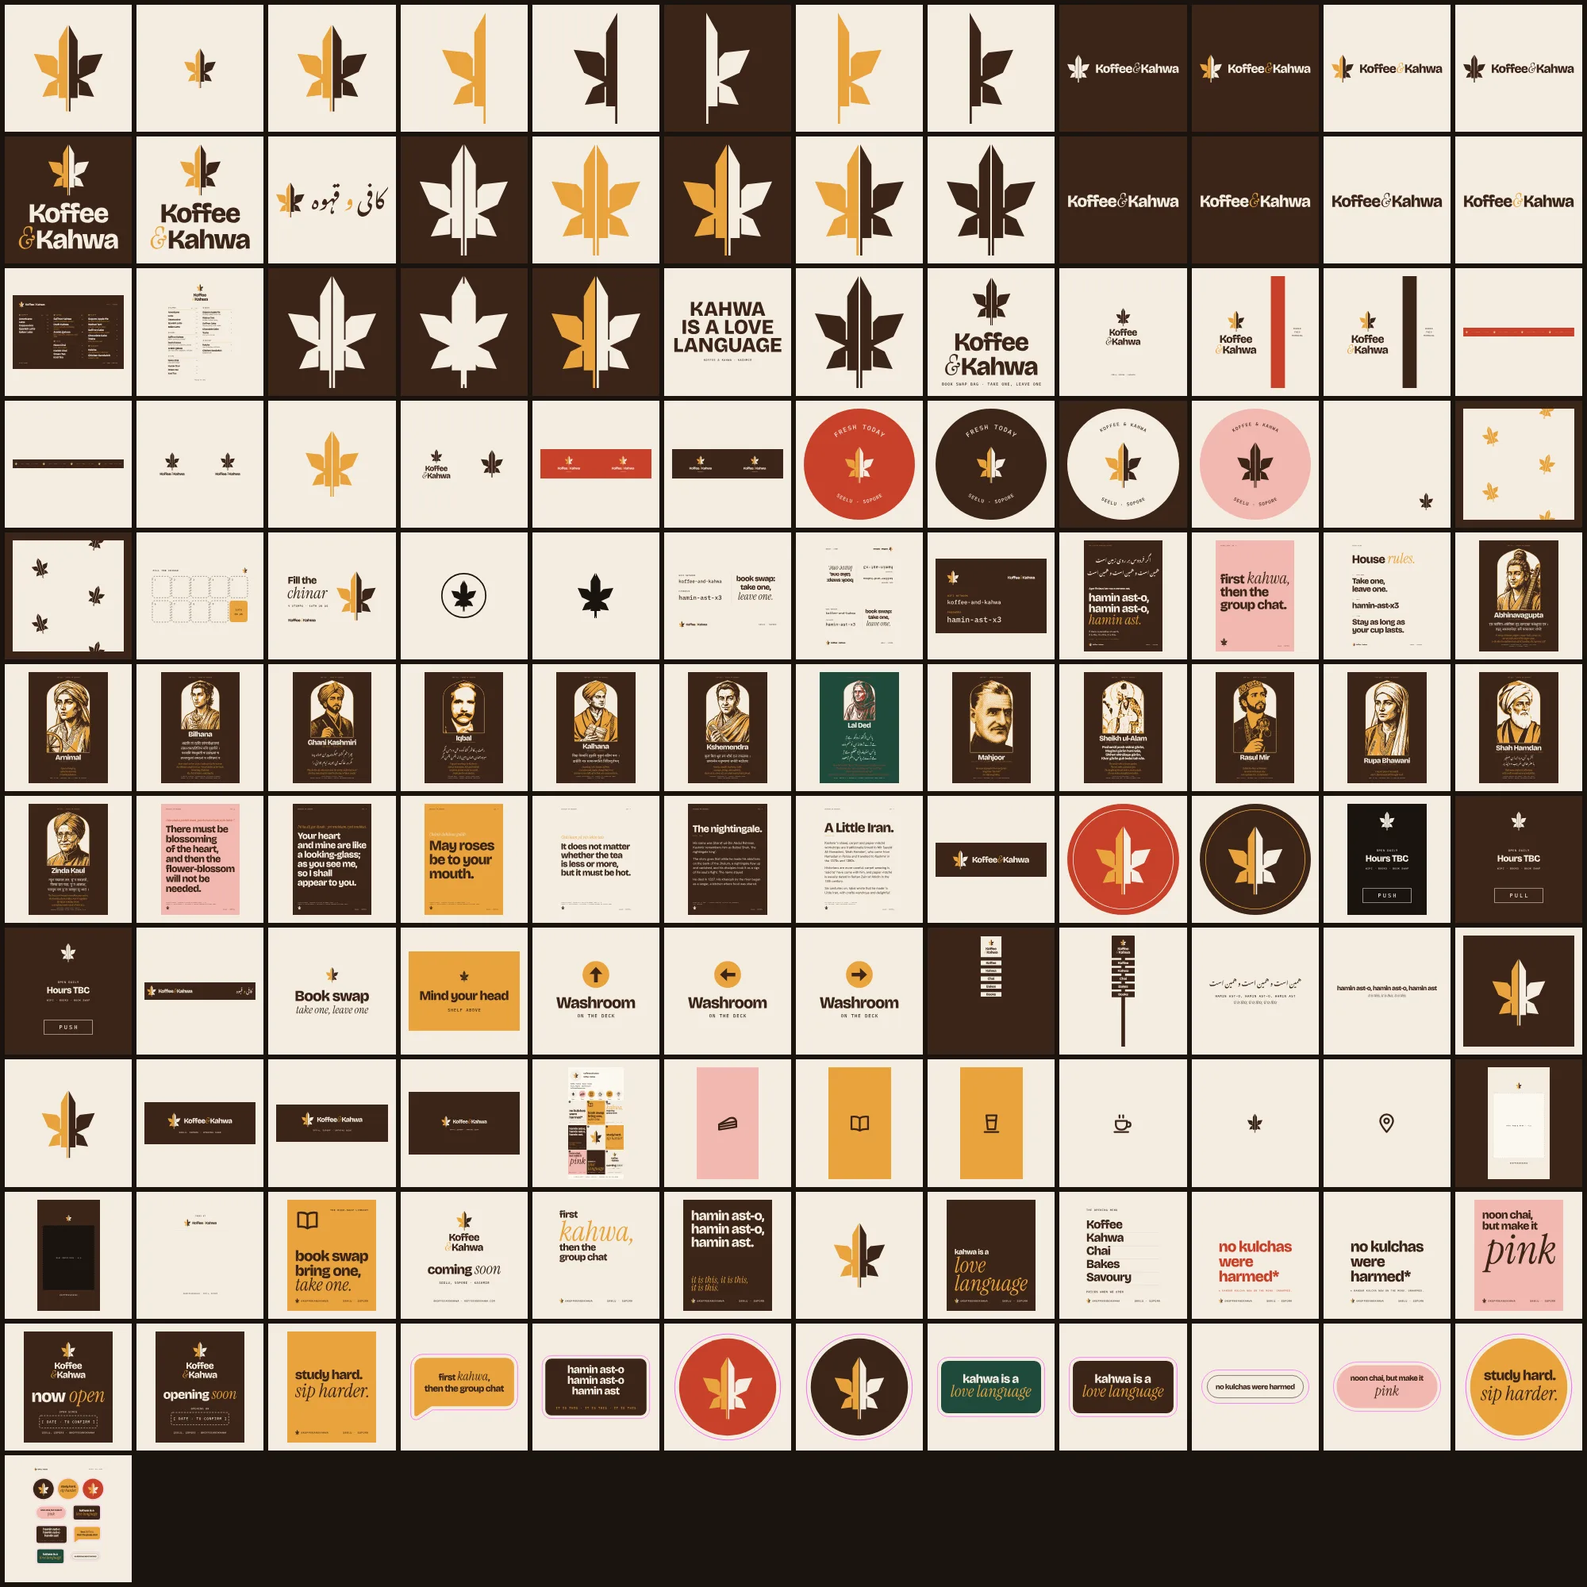
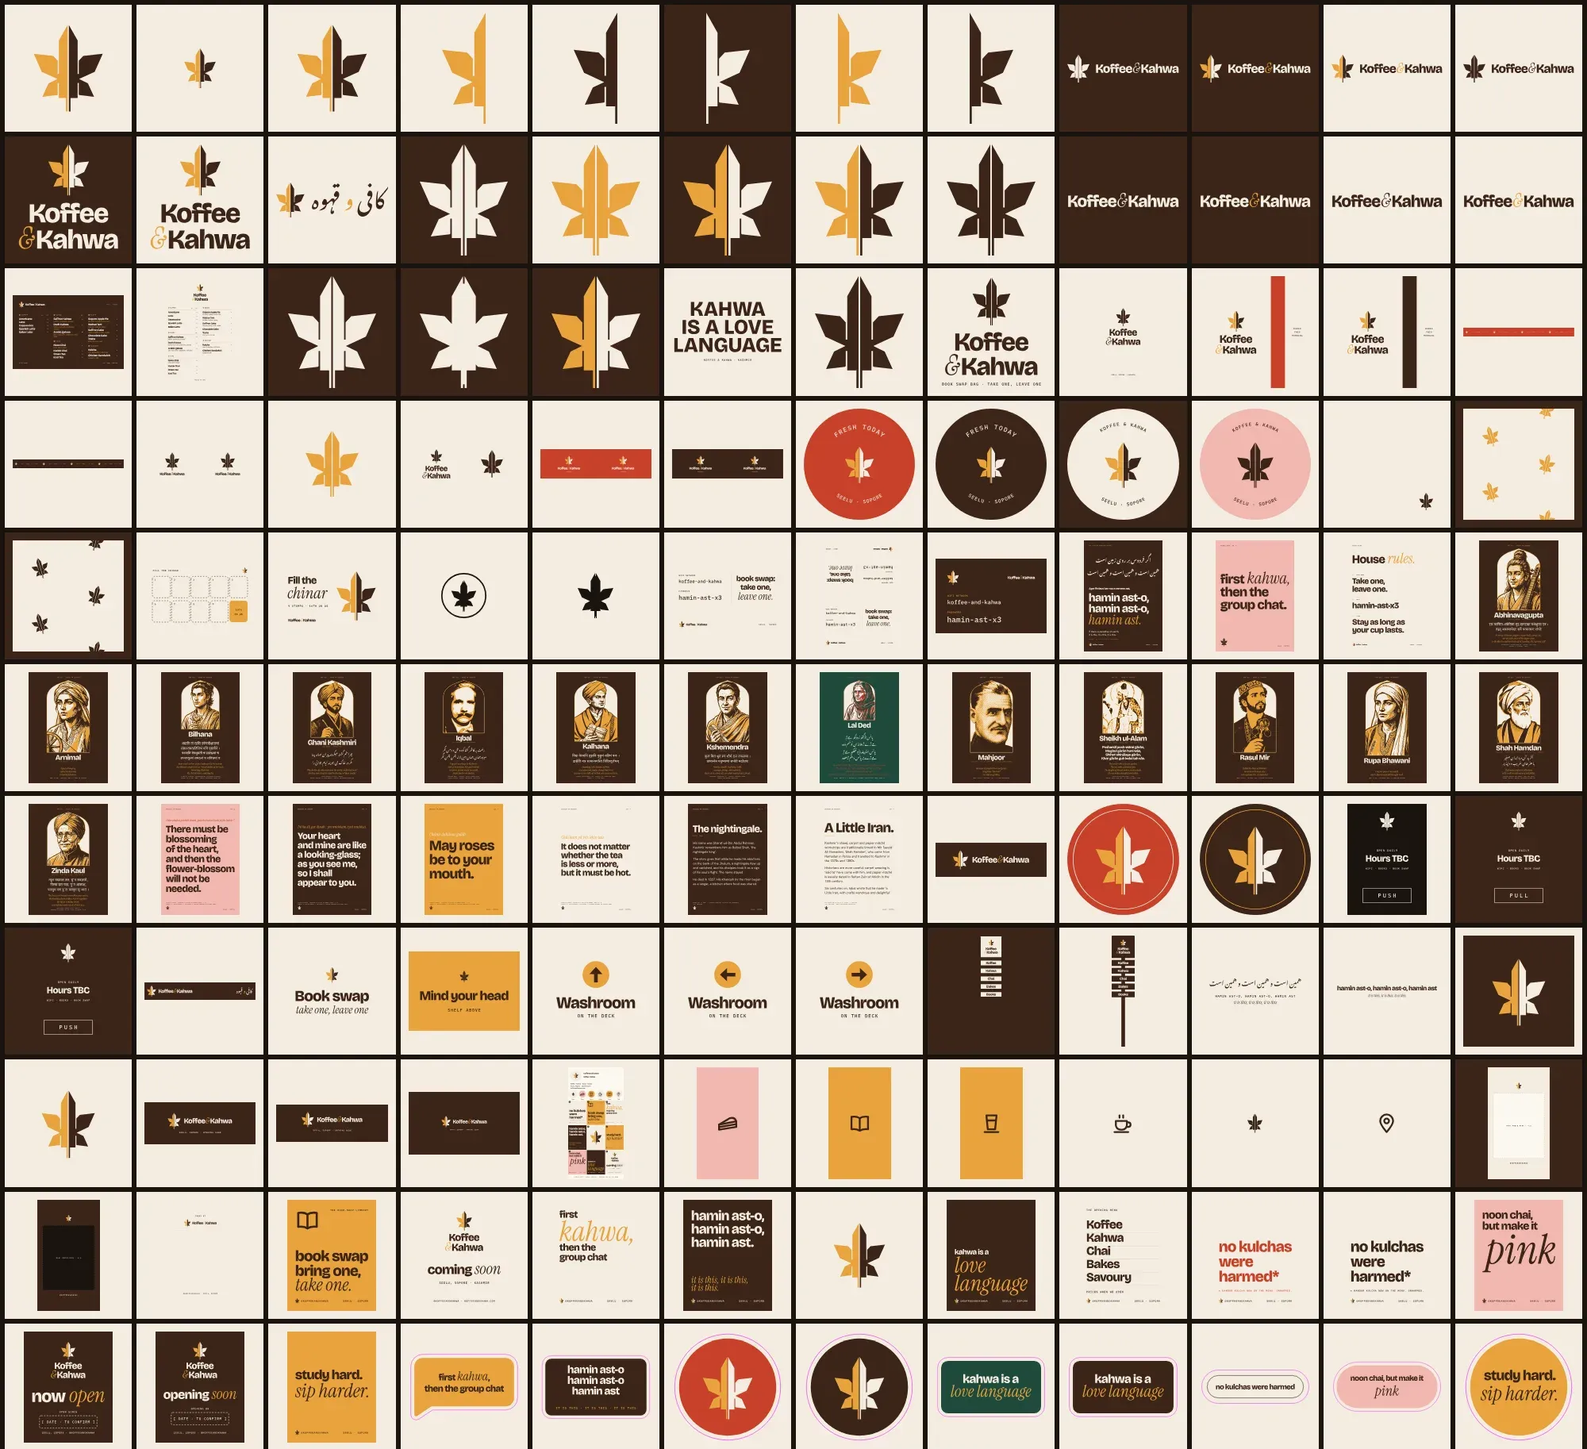
Koffee & Kahwa, re-edited: finished work first, process as proof
From the Fable 5 and 5.2 reviews: the page read as an archive, not a
showcase. Same bones, emphasis inverted, seven beats instead of ten:

- Opens on the dusk 3D model, then the two Ks.
- The identity large: the lockup, the menu and the sticker sheet.
- New beat, "One generator, every file.": the generator's lockup_h,
  verbatim, then the files it made and the colour and voice slides.
- The room: the walkthrough (poster now from its opening, on the road),
  the plan and two furniture sheets.
- "Not now. Not never.": one render pair (kangri attempt 1 rejected,
  attempt 3 kept) instead of eight, and every reversal in one list.
- "Now, the deck goes in." pairs the deck as drawn with its poured edge,
  cropped to the same shape.
- Cut: the rounds sheet, the shutters slide, six renders, the two poet
  posters (lettering unchecked), the Instagram grid, the cup sleeve, two
  sheets, the measure sheet. The grid loses its dead last row.
- Words: the third-person "studio's range" line is gone; the intro says
  the work is mine, made with agents, decisions dated. The tally is now
  just "58 days in". koffeeandkahwa.com leaves the links until the café
  opens (#196).

10.9 screens at 1300 wide (was 13.7). Verified: build and unit suite;
screenshots at 1300 and 390. Committed with --no-verify (#195).

Refs #88

diff --git a/src/content/projects/koffee-kahwa.md b/src/content/projects/koffee-kahwa.md
@@ -16,15 +16,13 @@ featured: true
 status: "selected"
 cover: "/images/projects/koffee-kahwa/cover.jpg"
 links:
-  - label: "koffeeandkahwa.com"
-    url: "https://koffeeandkahwa.com"
   - label: "Instagram"
     url: "https://www.instagram.com/koffeeandkahwa/"
 media:
   - type: "image"
     src: "/images/projects/koffee-kahwa/model-front-dusk.webp"
     alt: "The café's 3D model from across the road at dusk: the deck, umbrellas, the pylon and the lit fascia."
-    caption: "The 3D model from across the road, at dusk."
+    caption: "The café as designed: the 3D model from across the road, at dusk."
     width: 1600
     height: 900
 journey:
@@ -62,109 +60,58 @@ journey:
       quotes:
         - text: "lets go with Koffee and Kahwa. but lets use a modern graphic art of the back to back K and reverse K…"
           when: "29 Sep 2026"
-    - when: "Sep – Oct 2026"
+    - when: "Oct – Nov 2026"
       date: "2026-10"
-      line: "Four rounds of votes, then one deck."
-      layout: "wide"
-      media:
-        - type: "image"
-          src: "/images/projects/koffee-kahwa/rounds-1-to-4.webp"
-          alt: "Eight slides from the four retired voting rounds, two from each."
-          caption: "Rounds 1 to 4: four voting decks before the one definitive deck."
-          width: 1980
-          height: 576
-      turns:
-        - when: "12 Oct 2026"
-          from: "Four logo variants up for a vote, neon among them"
-          to: "The split leaf only; neon dropped everywhere"
-        - when: "12 Oct 2026"
-          from: "Kulcha off the menu"
-          to: "Kandur kulcha back for the traditionalists"
-        - when: "13 Oct 2026"
-          from: "Four voting decks with Love, Maybe and No buttons"
-          to: "One definitive deck, and no votes"
-    - when: "Sep – Oct 2026"
-      date: "2026-10"
-      line: "Every render kept, with its verdict."
-      note: "Each AI render is kept with its prompt, its attempt and what was wrong with it. None of them is the real place."
-      layout: "sheet"
-      media:
-        - type: "image"
-          src: "/images/projects/koffee-kahwa/ai-front-dusk-kept.webp"
-          alt: "AI render of the café front at dusk, made on a drawn view of the 3D model."
-          caption: "AI attempt: the front at dusk, on the 3D model. Kept."
-          width: 1600
-          height: 900
-        - type: "image"
-          src: "/images/projects/koffee-kahwa/ai-deck-night-kept.webp"
-          alt: "AI render of the deck at night by kangri light."
-          caption: "AI attempt: the deck at night. Kept."
-          width: 1600
-          height: 900
-        - type: "image"
-          src: "/images/projects/koffee-kahwa/ai-counter-kept.webp"
-          alt: "AI render of the lapis papier-mâché counter and cake case."
-          caption: "AI attempt: the counter and cake case. Kept."
-          width: 1448
-          height: 1086
-        - type: "image"
-          src: "/images/projects/koffee-kahwa/ai-room-corner-kept.webp"
-          alt: "AI render of the whole room from the back corner, the lapis counter and window bar, the deck beyond."
-          caption: "AI attempt: the room from the back corner. Kept, but drawn too large."
-          width: 1600
-          height: 900
-        - type: "image"
-          src: "/images/projects/koffee-kahwa/ai-kangri-two-arches-kept.webp"
-          alt: "AI render of a kangri lamp with two woven arches and a filament bulb in the clay pot."
-          caption: "AI attempt 3: the kangri lamp, with its two handles right. Kept."
-          width: 1376
-          height: 768
-        - type: "image"
-          src: "/images/projects/koffee-kahwa/ai-room-maple-leaves-rejected.webp"
-          alt: "AI render of the room from the door, with spiky maple leaves painted on the counter front."
-          caption: "Rejected: maple leaves on the counter. Ours is a chinar."
-          width: 1448
-          height: 1086
-        - type: "image"
-          src: "/images/projects/koffee-kahwa/ai-kangri-one-handle-rejected.webp"
-          alt: "AI render of a kangri lamp that reads as having one handle."
-          caption: "Rejected: one handle. A real kangri has two."
-          width: 1376
-          height: 768
-        - type: "image"
-          src: "/images/projects/koffee-kahwa/ai-khos-with-handle-rejected.webp"
-          alt: "AI render of a copper khos cup drawn with a handle."
-          caption: "Rejected: a khos with a handle. It has none."
-          width: 1136
-          height: 1408
-      quotes:
-        - text: "i see that many of the indoor pictures also still have the raw concrete vibe. which i feel makes it feel like a warehouse."
-          when: "29 Sep 2026"
-    - when: "12 Oct 2026"
-      date: "2026-10-12"
-      line: "The shutters stay. They get a job."
-      layout: "wide"
-      media:
-        - type: "image"
-          src: "/images/projects/koffee-kahwa/deck-slide-18-shutters.webp"
-          alt: "Deck slide: the kept roller shutters redesigned as a brand surface, with the pylon and blade sign artwork."
-          caption: "The old shutters stay, redesigned as the café's night face."
-          width: 1600
-          height: 900
-      turns:
-        - when: "12 Oct 2026"
-          from: "No shutters: a new front and a sign"
-          to: "The shutters stay, repaired and redesigned"
-    - when: "13 Oct 2026"
-      date: "2026-10-13"
-      line: "Warm base, rare accents."
-      note: "Every file comes out of one Python generator, from one set of colours and type."
+      line: "Every cup, one family."
       layout: "pair"
       media:
         - type: "image"
+          src: "/images/projects/koffee-kahwa/lockup-horizontal.svg"
+          alt: "The horizontal lockup: the leaf, the wordmark Koffee & Kahwa and its saffron ampersand."
+          caption: "The lockup, and its one saffron ampersand."
+          width: 352
+          height: 88
+          full: true
+        - type: "image"
+          src: "/images/projects/koffee-kahwa/menu-card-no-prices.webp"
+          alt: "The A4 table menu: Koffee, Kahwa, Chai, Bakes and Savoury, every price a dash."
+          caption: "The opening menu. Prices print as dashes until costed."
+          width: 1140
+          height: 1600
+        - type: "image"
+          src: "/images/projects/koffee-kahwa/sticker-sheet.webp"
+          alt: "An A4 kiss-cut sticker sheet: leaf discs and the house lines, such as study hard, sip harder."
+          caption: "Sticker sheet: the leaf and the house lines."
+          width: 1140
+          height: 1600
+    - when: "Oct – Nov 2026"
+      date: "2026-10"
+      line: "One generator, every file."
+      layout: "pair"
+      code:
+        caption: "How the generator draws the lockup: the proportions locked on the deck, kept as Python."
+        text: |
+          def lockup_h(x, y, size, words=None, amp=None, left=None, right=None, solid=None):
+              """Horizontal lockup: leaf, then wordmark, top-left at (x, y). size = word size.
+              Proportions from deck slide 1 (locked): leaf = 2.2x word size, gap = 0.46x,
+              wordmark caps centred on the leaf. Returns (svg, w, h)."""
+              mh = 2.2 * size
+              m, mw = mark(x, y, mh, left, right, solid)
+              base = y + mh * 0.5 + cap(size) * 0.5
+              wm, ww = wordmark(x + mw + 0.46 * size, base, size, words, amp)
+              return m + wm, mw + 0.46 * size + ww, mh
+      media:
+        - type: "image"
+          src: "/images/projects/koffee-kahwa/everything-the-generator-made.webp"
+          alt: "A grid of 132 brand files: marks, lockups, menus, packaging, signs, posters, social tiles, stickers, merch and paper."
+          caption: "132 of the files it has made: marks, menus, signs, posters, stickers."
+          width: 2000
+          height: 1826
+          full: true
+        - type: "image"
           src: "/images/projects/koffee-kahwa/deck-slide-08-colour-type.webp"
           alt: "Deck slide: the colours as a ratio bar, cream, walnut, saffron, pink, chinar, pine and lapis, and the three type roles."
-          caption: "Colour in ratio, and three typefaces with one job each."
+          caption: "Warm base, rare accents: colour in ratio, three typefaces."
           width: 1600
           height: 900
         - type: "image"
@@ -173,8 +120,8 @@ journey:
           caption: "Proud, not preachy: the house lines, one joke per object."
           width: 1600
           height: 900
-    - when: "14 Oct 2026"
-      date: "2026-10-14"
+    - when: "Oct – Nov 2026"
+      date: "2026-11"
       line: "The café grows toward the road."
       layout: "pair"
       media:
@@ -186,87 +133,6 @@ journey:
           width: 1280
           height: 720
           full: true
-        - type: "image"
-          src: "/images/projects/koffee-kahwa/model-room-night.webp"
-          alt: "The 3D model from behind the counter at night, kangri lamps lit, the deck beyond the glass."
-          caption: "From behind the counter, at night."
-          width: 1600
-          height: 1200
-        - type: "image"
-          src: "/images/projects/koffee-kahwa/model-deck.webp"
-          alt: "The 3D model on the deck: two columns of two-tops under umbrellas and the lane to the door."
-          caption: "On the deck: two-tops, umbrellas, the lane."
-          width: 1600
-          height: 1200
-    - when: "Oct – Nov 2026"
-      date: "2026-11"
-      line: "Every cup, one family."
-      layout: "sheet"
-      media:
-        - type: "image"
-          src: "/images/projects/koffee-kahwa/everything-the-generator-made.webp"
-          alt: "A grid of 132 brand files: marks, lockups, menus, packaging, signs, posters, social tiles, stickers, merch and paper."
-          caption: "132 of the files from one generator: marks, menus, signs, posters, stickers."
-          width: 2000
-          height: 2000
-          full: true
-        - type: "image"
-          src: "/images/projects/koffee-kahwa/lockup-horizontal.svg"
-          alt: "The horizontal lockup: the leaf, the wordmark and the saffron ampersand."
-          caption: "The lockup, and its one saffron ampersand."
-          width: 352
-          height: 88
-        - type: "image"
-          src: "/images/projects/koffee-kahwa/mark-one-ink-walnut.svg"
-          alt: "The leaf in one ink, walnut."
-          caption: "One ink, for stamps and embroidery."
-          width: 96
-          height: 120
-        - type: "image"
-          src: "/images/projects/koffee-kahwa/cup-sleeve.webp"
-          alt: "A hot-cup sleeve laid flat, walnut with the lockup."
-          caption: "Hot-cup sleeve, flat."
-          width: 1600
-          height: 416
-        - type: "image"
-          src: "/images/projects/koffee-kahwa/menu-card-no-prices.webp"
-          alt: "The A4 table menu: Koffee, Kahwa, Chai, Bakes and Savoury, every price a dash."
-          caption: "The opening menu. Prices print as dashes until costed."
-          width: 1140
-          height: 1600
-        - type: "image"
-          src: "/images/projects/koffee-kahwa/sticker-sheet.webp"
-          alt: "An A4 kiss-cut sticker sheet: leaf discs and the house lines."
-          caption: "Sticker sheet: the leaf and the house lines."
-          width: 1140
-          height: 1600
-        - type: "image"
-          src: "/images/projects/koffee-kahwa/instagram-grid.webp"
-          alt: "An Instagram profile mock-up with the first grid of graphic tiles."
-          caption: "The first Instagram grid: graphics only, no AI photos."
-          width: 798
-          height: 1600
-        - type: "image"
-          src: "/images/projects/koffee-kahwa/poster-lal-ded.webp"
-          alt: "A poet poster under an arch: a two-ink portrait of Lal Ded, her verse in Kashmiri and in English."
-          caption: "Poet poster: Lal Ded, traced from an AI portrait. Lettering not yet checked."
-          width: 1136
-          height: 1600
-        - type: "image"
-          src: "/images/projects/koffee-kahwa/poster-hamin-ast.webp"
-          alt: "The couplet poster: the Persian line in Nastaliq, then hamin ast-o set large, and the English."
-          caption: "The couplet poster. The Persian is not yet checked."
-          width: 1136
-          height: 1600
-      turns:
-        - when: "14 Oct 2026"
-          from: "A bento-cake box and its sticker"
-          to: "Bento dropped"
-    - when: "Nov 2026"
-      date: "2026-11"
-      line: "A seat for every mood."
-      layout: "pair"
-      media:
         - type: "image"
           src: "/images/projects/koffee-kahwa/plan-ga-inside.webp"
           alt: "The ground-floor plan at 1:25 with seat counts and the reasons for each choice; the deck begins at the bottom."
@@ -286,47 +152,69 @@ journey:
           caption: "Window bar and cane stools, a socket per stool."
           width: 2000
           height: 1350
-        - type: "image"
-          src: "/images/projects/koffee-kahwa/sheet-deck-bench.webp"
-          alt: "The deck bench floating off the wall: plan and a 1:10 section with cushions stored beneath."
-          caption: "The deck bench floats off the wall; cushions live underneath."
-          width: 1560
-          height: 1392
-        - type: "image"
-          src: "/images/projects/koffee-kahwa/sheet-kangri-light.webp"
-          alt: "Reflected ceiling plan of the nine kangri lamps with cable runs and drop heights."
-          caption: "Nine kangri lamps: ceiling plan and drop heights."
-          width: 1182
-          height: 1584
-        - type: "image"
-          src: "/images/projects/koffee-kahwa/site-measure-sheet.webp"
-          alt: "A measuring sheet: twelve numbered tapes on a plan and a front view, with a table to fill in."
-          caption: "What to measure next: twelve numbered tapes for the site."
-          width: 2000
-          height: 1164
-          full: true
       quotes:
         - text: "having multiple options is distracting, lets keep one thing."
           when: "9 Nov 2026"
+    - when: "Sep – Nov 2026"
+      date: "2026-11"
+      line: "Not now. Not never."
+      note: "AI renders were briefs for the eye, each kept with its prompt and its verdict. None of them is the real place."
+      layout: "pair"
+      media:
+        - type: "image"
+          src: "/images/projects/koffee-kahwa/ai-kangri-one-handle-rejected.webp"
+          alt: "AI render of a kangri lamp that reads as having one handle."
+          caption: "Attempt 1, rejected: one handle. A real kangri has two."
+          width: 1376
+          height: 768
+        - type: "image"
+          src: "/images/projects/koffee-kahwa/ai-kangri-two-arches-kept.webp"
+          alt: "AI render of a kangri lamp with two woven arches and a filament bulb in the clay pot."
+          caption: "Attempt 3, kept: two handles, a filament bulb in the clay."
+          width: 1376
+          height: 768
+      quotes:
+        - text: "i see that many of the indoor pictures also still have the raw concrete vibe. which i feel makes it feel like a warehouse."
+          when: "29 Sep 2026"
       turns:
+        - when: "12 Oct 2026"
+          from: "No shutters: a new front and a sign"
+          to: "The shutters stay, repaired and redesigned"
+        - when: "12 Oct 2026"
+          from: "Four logo variants up for a vote, neon among them"
+          to: "The split leaf only; neon dropped everywhere"
+        - when: "12 Oct 2026"
+          from: "Kulcha off the menu"
+          to: "Kandur kulcha back for the traditionalists"
         - when: "12 Oct 2026"
           from: "A roof terrace with a spiral stair"
           to: "Roof paused; a deck out to the road instead"
+        - when: "13 Oct 2026"
+          from: "Four voting decks with Love, Maybe and No buttons"
+          to: "One definitive deck, and no votes"
         - when: "14 Oct 2026"
           from: "A washroom on the deck"
           to: "Off the plan"
+        - when: "14 Oct 2026"
+          from: "A bento-cake box and its sticker"
+          to: "Bento dropped"
     - when: "Now"
       date: "2026-11"
       line: "Now, the deck goes in."
       layout: "pair"
       media:
         - type: "image"
+          src: "/images/projects/koffee-kahwa/model-deck-wide.webp"
+          alt: "The 3D model on the deck: two-tops and cane chairs under kangri lamps, the glass front behind."
+          caption: "Drawn: the deck in the 3D model."
+          width: 1600
+          height: 678
+        - type: "image"
           src: "/images/projects/koffee-kahwa/platform-edge-cast.webp"
           alt: "The platform's edge cast all round, stones heaped inside and concrete rings waiting in front."
-          caption: "The platform's edge cast all round, 13 November."
+          caption: "Built so far: the deck's edge, cast all round, 13 November."
           width: 1598
           height: 678
-          full: true
         - type: "image"
           src: "/images/projects/koffee-kahwa/footing-corner.webp"
           alt: "The deck footing's corner: stone set in a trench with a steel mesh."
@@ -348,13 +236,11 @@ journey:
           to: "Loose weighted bases"
   open:
     line: "hamin ast-o, hamin ast-o, hamin ast."
-    note: "It is this, it is this, it is this: the deck's last line. So far, 58 days, seven rounds, 330 generated files and 44 dated decisions. The café isn't open yet."
+    note: "It is this, it is this, it is this: the deck's last line. 58 days in, the café isn't open yet."
 order: 0
 tags:
   - "client"
 hidden: false
 ---
 
-A café in Kashmir that I'm designing for my family. My cousins run the business and lead the build. The name, the mark, the system and the room are my part.
-
-One designer covered a studio's range in days, working with agents. Taste and every decision stayed mine, and the records prove it.
+A café in Kashmir that I'm designing for my family. My cousins run the business and lead the build. The name, the mark, the system and the room are mine, made with agents, and every decision is dated below.
